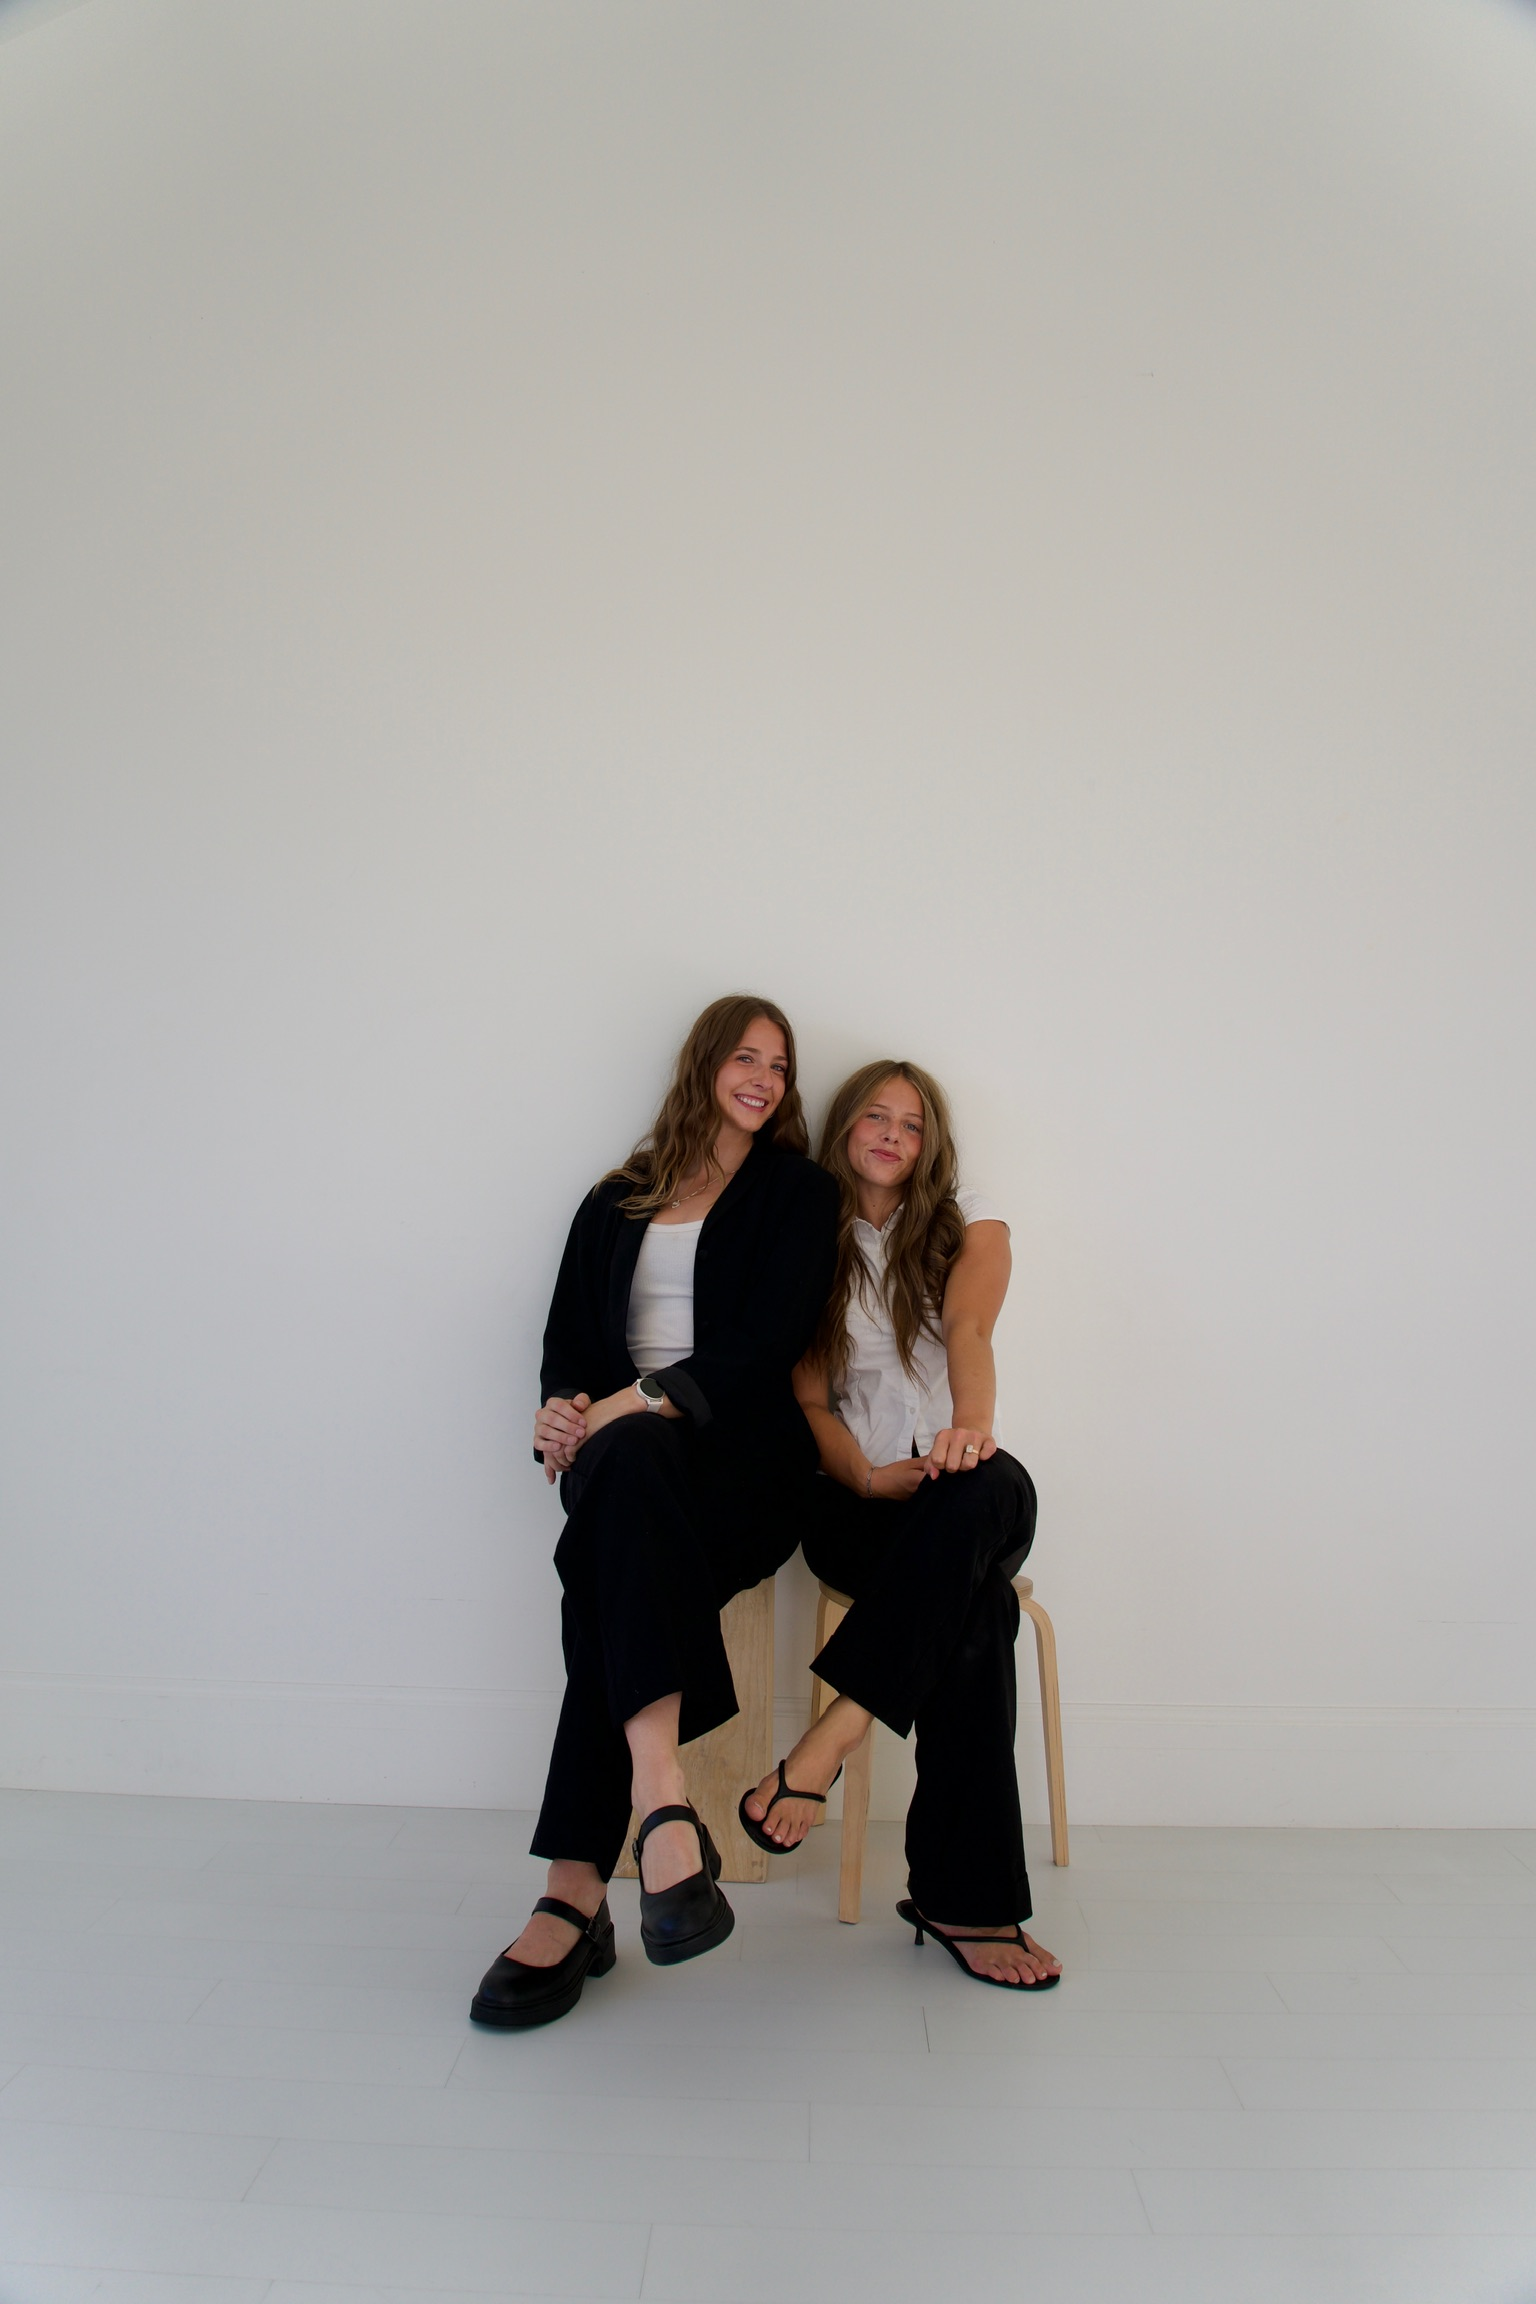
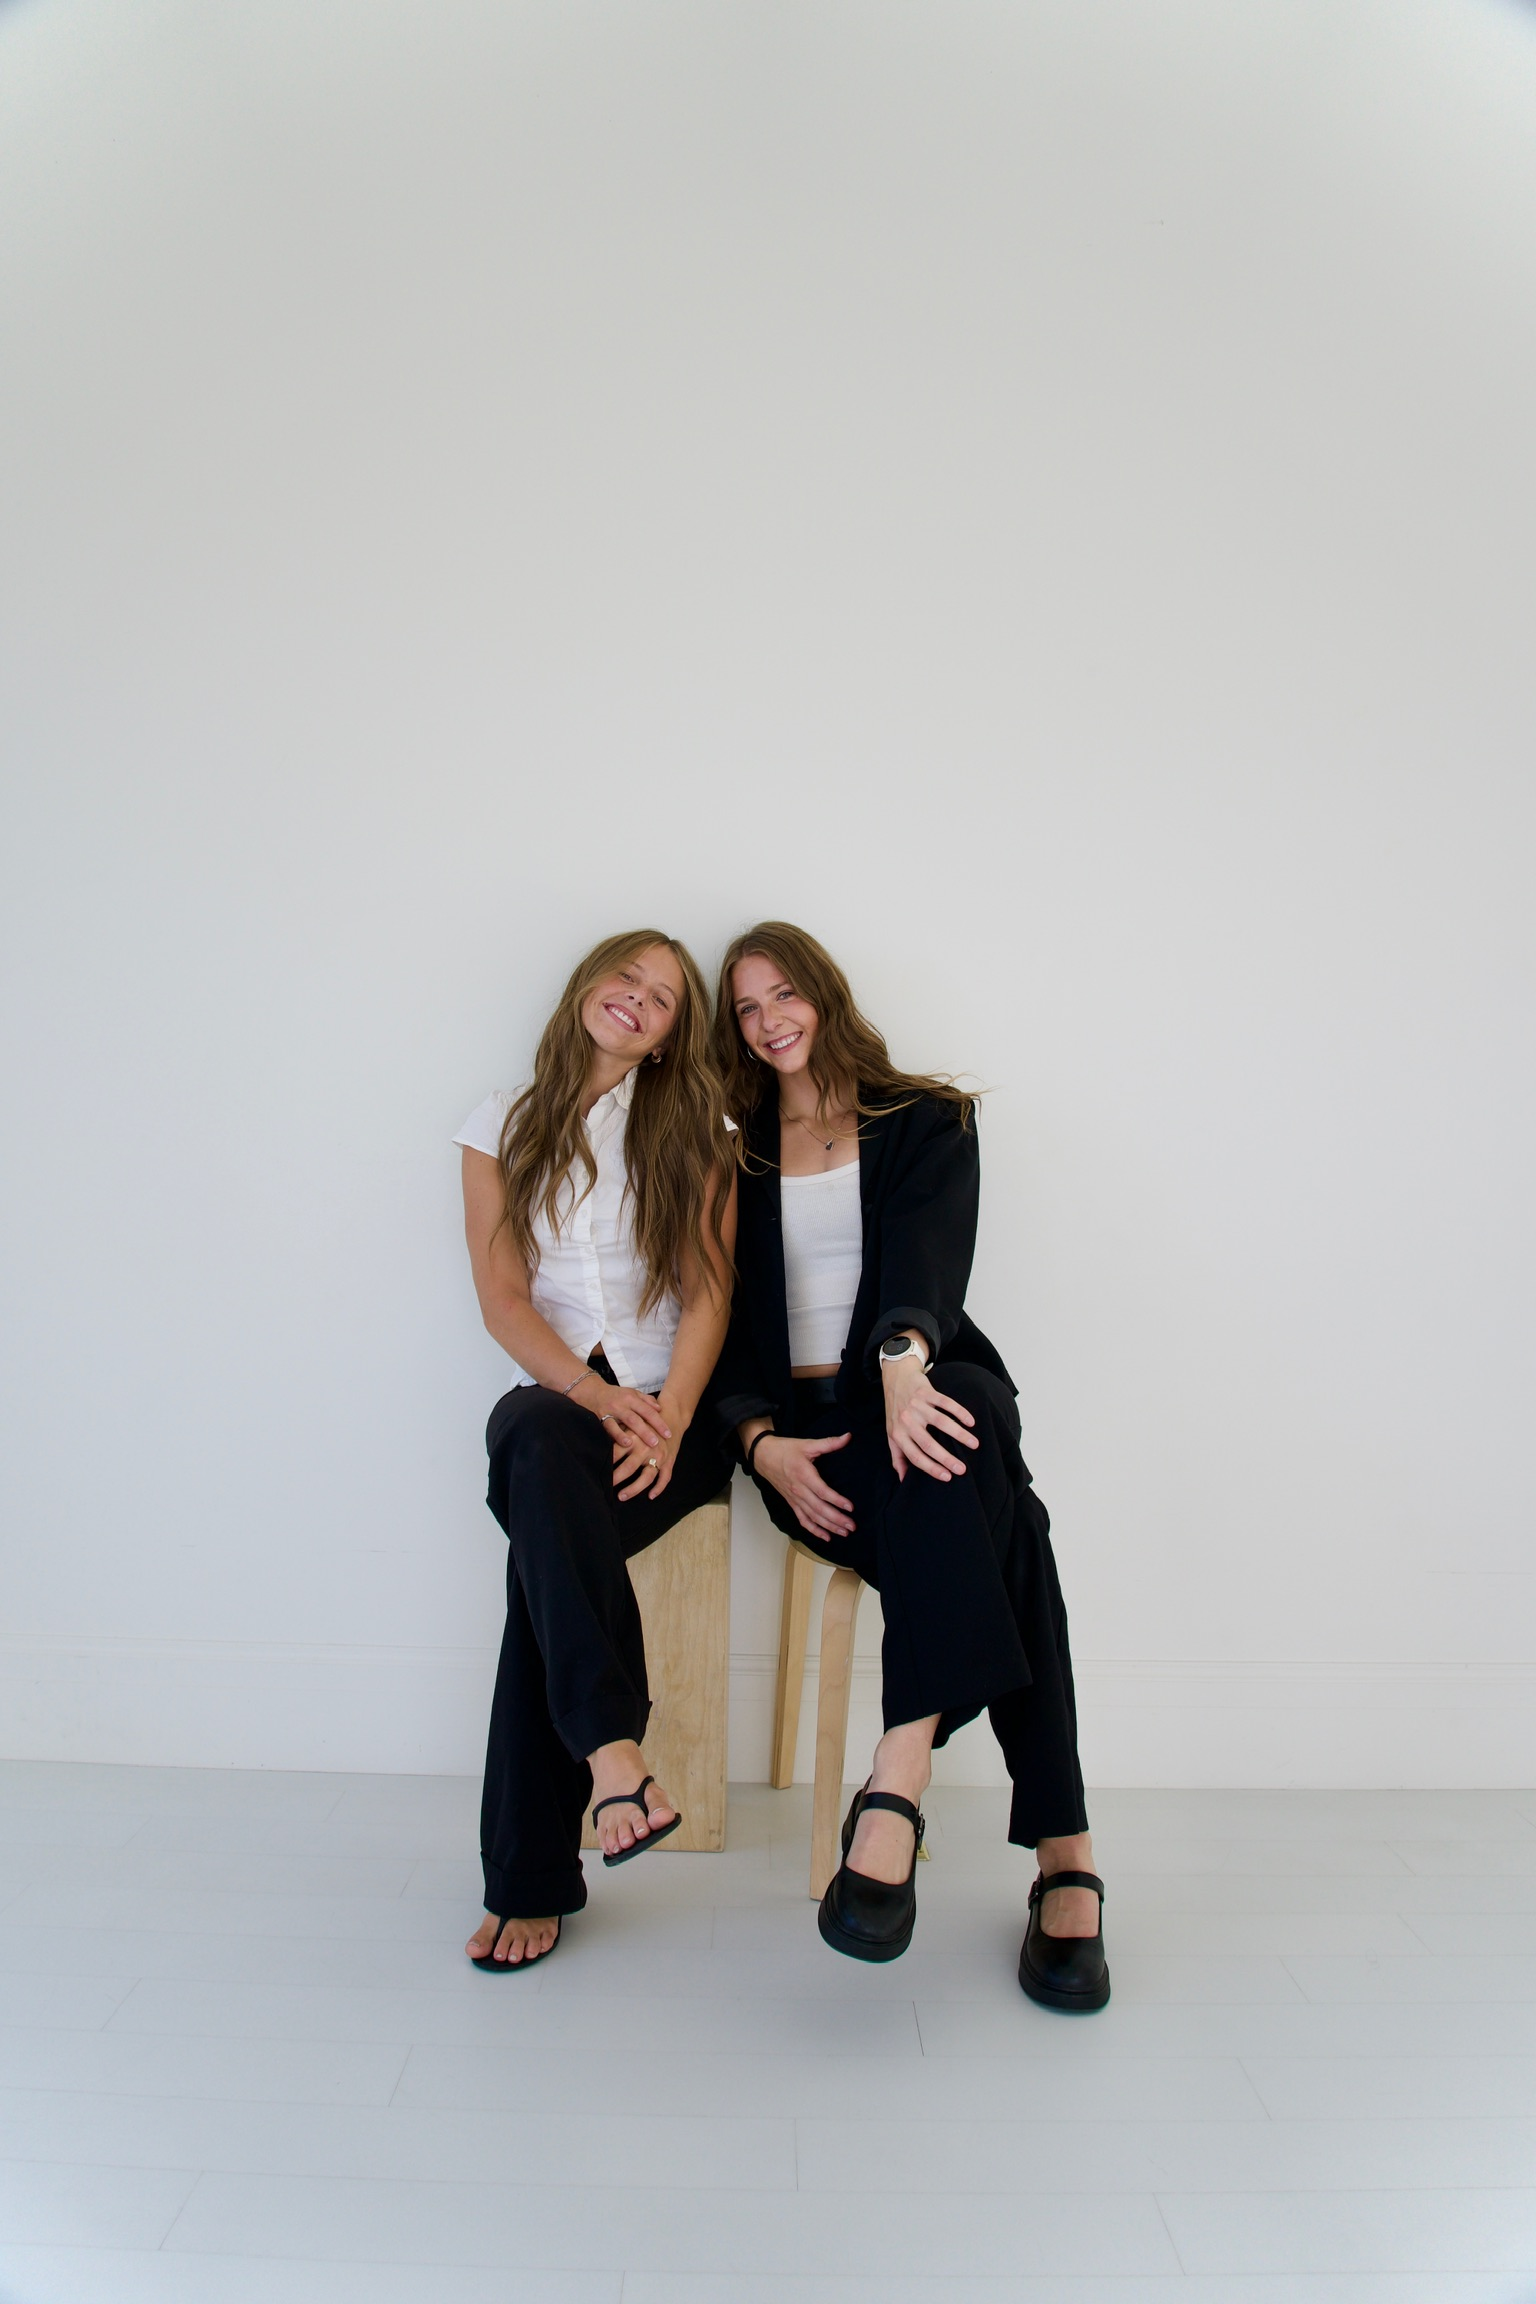
Put the founders' real photos on the site
Adds the remaining studio and personal photos and wires them into the
journal, the About founder portraits, and the Other Than Weddings
offering. Journal posts gain an optional image field mirroring the
pattern already used by services, so a post without a photo still
renders its placeholder.

Replaces free-guide with the seated notepad and laptop frame, which
matches the brief better than the standing one it had.

Two frames are still outstanding and remain placeholders: a wedding
photo for Partial Planning, and the inquire page portrait.

diff --git a/src/app/about/page.tsx b/src/app/about/page.tsx
@@ -35,12 +35,14 @@ const each = [
     role: "Placeholder role",
     body: "A short, warm paragraph about who she is, what she is like to work with, and what she brings to a wedding. Not a resume. Something a bride reads and thinks, I want her there.",
     photo: "Film photo: Lexi, candid portrait",
+    image: "/photos/founder-lexi.jpg",
   },
   {
     name: "Maddy Kate",
     role: "Placeholder role",
     body: "The same for Maddy. Where their strengths differ is the interesting part, because it explains why hiring the two of them is different from hiring one planner.",
     photo: "Film photo: Maddy, candid portrait",
+    image: "/photos/founder-maddy.jpg",
   },
 ];
 
@@ -94,12 +96,21 @@ export default function AboutPage() {
           <div className="mt-20 grid gap-14 sm:grid-cols-2 sm:gap-20">
             {each.map((person, i) => (
               <Reveal key={person.name} delay={i * 100}>
-                <PlaceholderImage
-                  label={person.photo}
-                  ratio="4/5"
-                  tone={i === 0 ? "ivory" : "sage"}
-                  quiet
-                />
+                {person.image ? (
+                  <Photo
+                    src={person.image}
+                    alt={person.name}
+                    ratio="4/5"
+                    sizes="(min-width: 640px) 50vw, 100vw"
+                  />
+                ) : (
+                  <PlaceholderImage
+                    label={person.photo}
+                    ratio="4/5"
+                    tone={i === 0 ? "ivory" : "sage"}
+                    quiet
+                  />
+                )}
                 <h3 className="font-display mt-8 text-3xl">{person.name}</h3>
                 <p className="label text-taupe mt-2">{person.role}</p>
                 <p className="text-espresso-soft mt-5 text-base leading-relaxed">

diff --git a/src/app/journal/page.tsx b/src/app/journal/page.tsx
@@ -2,6 +2,7 @@ import type { Metadata } from "next";
 import Link from "next/link";
 import PageHero from "@/components/PageHero";
 import PlaceholderImage from "@/components/PlaceholderImage";
+import Photo from "@/components/Photo";
 import Reveal from "@/components/Reveal";
 import { PlaceholderNote, SectionLabel } from "@/components/ui";
 import LeadMagnet from "@/components/LeadMagnet";
@@ -30,12 +31,21 @@ export default function JournalPage() {
             {posts.map((post, i) => (
               <Reveal as="article" key={post.slug} delay={i * 90}>
                 <Link href={`/journal/${post.slug}`} className="block">
-                  <PlaceholderImage
-                    label={post.cover}
-                    ratio="4/3"
-                    tone={tones[i % 3]}
-                    quiet
-                  />
+                  {post.image ? (
+                    <Photo
+                      src={post.image}
+                      alt={post.title}
+                      ratio="4/3"
+                      sizes="(min-width: 1024px) 33vw, (min-width: 640px) 50vw, 100vw"
+                    />
+                  ) : (
+                    <PlaceholderImage
+                      label={post.cover}
+                      ratio="4/3"
+                      tone={tones[i % 3]}
+                      quiet
+                    />
+                  )}
                   <div className="mt-6 flex items-center gap-3">
                     <span className="label text-taupe">{post.category}</span>
                     <span className="bg-taupe/60 h-px w-5" />

diff --git a/src/content/journal.ts b/src/content/journal.ts
@@ -15,6 +15,8 @@ export type JournalPost = {
   readTime: string;
   excerpt: string;
   cover: string;
+  /** Real photo under /public. Posts without one still render a placeholder. */
+  image?: string;
   /** True until the founders write and approve the real post. */
   draft: boolean;
   sections?: JournalSection[];
@@ -34,6 +36,7 @@ export const posts: JournalPost[] = [
     excerpt:
       "Before the Pinterest boards, venue tours, spreadsheets, and group texts begin, give yourselves a minute to actually enjoy it. Here is where we tell every newly engaged couple to start.",
     cover: "Film photo: the moment of getting engaged",
+    image: "/photos/journal-engaged.jpg",
     draft: false,
     sections: [
       {
@@ -133,6 +136,7 @@ export const posts: JournalPost[] = [
     excerpt:
       "The two get used interchangeably, and they are not the same job. The biggest difference is when they step in and how involved they are along the way.",
     cover: "Film photo: Maddy laying on the ground",
+    image: "/photos/journal-planner-vs-coordinator.jpg",
     draft: false,
     sections: [
       {
@@ -210,6 +214,7 @@ export const posts: JournalPost[] = [
     excerpt:
       "Twelve months, broken down month by month, so you know what deserves your attention now, what can wait, and when it is time to start making the smaller decisions.",
     cover: "Film photo: Maddy holding a paper reading \"you wouldn't be stressed\"",
+    image: "/photos/journal-utah-timeline.jpg",
     draft: false,
     sections: [
       {

diff --git a/src/app/journal/[slug]/page.tsx b/src/app/journal/[slug]/page.tsx
@@ -2,6 +2,7 @@ import type { Metadata } from "next";
 import Link from "next/link";
 import { notFound } from "next/navigation";
 import PlaceholderImage from "@/components/PlaceholderImage";
+import Photo from "@/components/Photo";
 import Reveal from "@/components/Reveal";
 import { ClosingCta, PlaceholderNote } from "@/components/ui";
 import { posts } from "@/content/journal";
@@ -47,7 +48,11 @@ export default async function JournalPostPage({
 
         <div className="px-6 sm:px-10">
           <Reveal className="mx-auto max-w-[1100px]">
-            <PlaceholderImage label={post.cover} ratio="16/9" tone="taupe" />
+            {post.image ? (
+              <Photo src={post.image} alt={post.title} ratio="16/9" sizes="100vw" />
+            ) : (
+              <PlaceholderImage label={post.cover} ratio="16/9" tone="taupe" />
+            )}
           </Reveal>
         </div>
 

diff --git a/src/content/services.ts b/src/content/services.ts
@@ -106,6 +106,7 @@ export const services: Service[] = [
     intro:
       "Not every celebration is a wedding. Bridal showers, bachelorette parties, baby showers, birthdays, engagement parties, and everything in between get the same care we bring to a wedding day. We take on the planning, the details, and the run of the day itself, so you get to actually enjoy the party you are throwing.",
     photo: "Film photo: the group on the Bach trip",
+    image: "/photos/other-than-weddings.jpg",
   },
 ];
 
